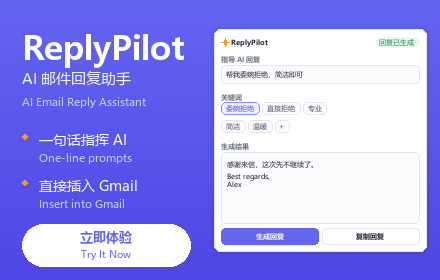
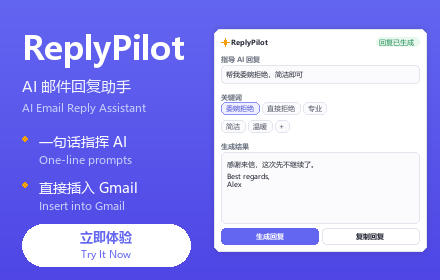
promo 标题栈：大标题与副标题层次间距 + 光学左对齐

diff --git a/scripts/generate-store-promo.py b/scripts/generate-store-promo.py
@@ -90,6 +90,14 @@ def draw_star(draw, cx, cy, r, fill):
                  fill=fill)
 
 
+def draw_left_aligned(draw, xy, text, fill, font):
+    """Draw so the ink's left edge lands exactly on xy[0] (cancels the glyph's
+    side bearing, which otherwise makes mixed-size lines look misaligned)."""
+    x, y = xy
+    bbox = draw.textbbox((x, y), text, font=font)
+    draw.text((2 * x - bbox[0], y), text, fill=fill, font=font)
+
+
 # ------------------------------------------------------------------- card ---
 
 # The card mock is authored against this reference box, then scaled to fit.
@@ -259,11 +267,12 @@ def draw_large_promo(W, H):
     left_x = margin
     top_y = 76
 
-    draw_text(draw, (left_x, top_y), "ReplyPilot", fill=COLORS["white"], font=F["title"])
-    draw_text(draw, (left_x, top_y + 66), "AI 邮件回复助手", fill=COLORS["off_white"],
-              font=F["subtitle"])
-    draw_text(draw, (left_x, top_y + 106), "AI Email Reply Assistant", fill=COLORS["sub"],
-              font=F["sub_en"])
+    # hero title, then a clear break before the subtitle pair
+    draw_left_aligned(draw, (left_x, top_y), "ReplyPilot", COLORS["white"], F["title"])
+    draw_left_aligned(draw, (left_x, top_y + 76), "AI 邮件回复助手",
+                      COLORS["off_white"], F["subtitle"])
+    draw_left_aligned(draw, (left_x, top_y + 117), "AI Email Reply Assistant",
+                      COLORS["sub"], F["sub_en"])
 
     bullets_top = top_y + 152
     block_bottom = draw_bullets(draw, left_x, bullets_top, BULLETS, F["bullet"],
@@ -310,13 +319,14 @@ def draw_small_promo(W, H):
     left_x = margin
     top_y = 26
 
-    draw_text(draw, (left_x, top_y), "ReplyPilot", fill=COLORS["white"], font=F["title"])
-    draw_text(draw, (left_x, top_y + 42), "AI 邮件回复助手", fill=COLORS["off_white"],
-              font=F["subtitle"])
-    draw_text(draw, (left_x, top_y + 68), "AI Email Reply Assistant", fill=COLORS["sub"],
-              font=F["sub_en"])
+    # hero title, then a clear break before the subtitle pair
+    draw_left_aligned(draw, (left_x, top_y), "ReplyPilot", COLORS["white"], F["title"])
+    draw_left_aligned(draw, (left_x, top_y + 50), "AI 邮件回复助手",
+                      COLORS["off_white"], F["subtitle"])
+    draw_left_aligned(draw, (left_x, top_y + 74), "AI Email Reply Assistant",
+                      COLORS["sub"], F["sub_en"])
 
-    bullets_top = top_y + 104
+    bullets_top = top_y + 106
     block_bottom = draw_bullets(draw, left_x, bullets_top, BULLETS_SMALL, F["bullet"],
                                 F["bullet_en"], pitch=46, gap=20)
 

diff --git a/.codebuddy/memory/2026-09-29.md b/.codebuddy/memory/2026-09-29.md
@@ -308,6 +308,23 @@
 - 头部节奏现为：卡片顶 80 → 图标 108 → 主题 148 → 发件人 190..224 → 横幅 250 → 正文 320。
 - 至此截图的局部对齐问题（孤儿行、贴边、侧栏、顶栏、头部）已全部清完；若再改布局，逐条对照 QA 清单的"容器内边距 ≥16px / 同行 lm-rm 同 cy"两条经验。
 
+## 第十九轮：promo 同类问题修复（commit 23f08f2，已 push）
+
+用户指出 promo 也有间距过近和遮挡。逐项（`generate-store-promo.py`）：
+
+1. **卡片 mock 遮挡（真 bug）**：标签顶对齐画在 Y(v)，下方控件从 Y(v+12) 开始，而 10px 字号的字形高约 13px →
+   「指导 AI 回复」「关键词」「生成结果」三个标签的底部都被下方输入框/chips 裁掉 1px。
+   修法：整体重排参考布局——guidance 标签 48/输入框 68..102、关键词标签 118/chips 138 起行距 34（行间隙 6→12）、
+   输出标签 212/输出框 232..366、正文 yy=246；标签到下方控件统一留 ~7px。
+2. **标题栈零间距**：小图 subtitle +40 / sub_en +60（15px 字只隔 20px 且底部相接）→ +42 / +68，bullets_top +104；
+   大图 +64 / +100（26px 字副题底部与 sub_en 顶差 -1px）→ +66 / +106。
+3. **bullet 中英行过近**：大图 gap 30→34，小图 18→20（zh 字形底部与 en 顶原本相接）。
+4. **断言坑**：新加的"输出框不挤按钮"断言第一版用绝对像素（≥8px），小图 s=0.53 时 10 参考像素只有 5.3px 而误报——
+   等比缩放的卡片 mock 里断言必须用**参考单位**比较。
+5. QA：两张图逐项过清单——标签无裁切、chips 行距清晰、标题栈均衡、last bullet 与 CTA 间距（大 39px/小 13px）、
+   CTA 底部安全线、无重叠。通过后提交推送。
+
+
 
 
 
